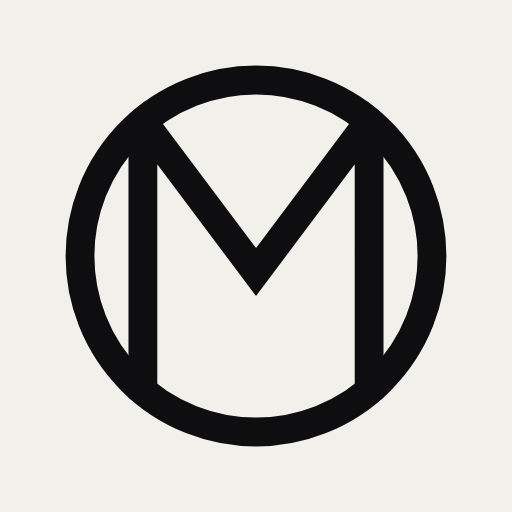
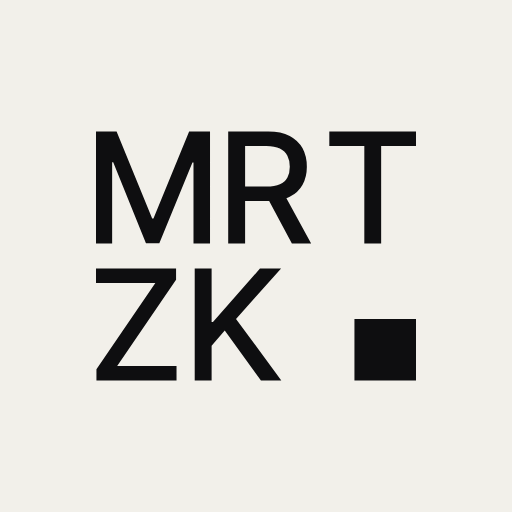
Switch to MRT/ZK grid monogram (#0E0E10 on #F2F0EA)
Replaces the circle monogram in the favicon, app icons, nav, hero,
About placeholder, footer and social preview image.

Claude-Session: https://claude.ai/code/session_01DwrwhGqewnAYTXEkSiZ8Jd

Changed region(s): [[0.125, 0.125, 0.875, 0.875], [0.75, 0.625, 0.7812, 0.6875]]

diff --git a/index.html b/index.html
@@ -35,7 +35,7 @@
 
   <header class="nav">
     <a href="#top" class="brand" aria-label="Mortzik, back to top">
-      <span class="badge"><svg viewBox="0 0 64 64" aria-hidden="true"><use href="#mark"/></svg></span>
+      <span class="badge"><svg aria-hidden="true"><use href="#mark"/></svg></span>
       <span class="mono wordmark">MORTZIK</span>
     </a>
     <nav>
@@ -47,22 +47,16 @@
     </nav>
   </header>
 
-  <!-- Monogram, defined once and reused -->
+  <!-- MRT/ZK grid monogram, defined once and reused -->
   <svg width="0" height="0" style="position:absolute" aria-hidden="true">
-    <defs>
-      <clipPath id="mark-clip"><circle cx="32" cy="32" r="23.8"/></clipPath>
-      <g id="mark" fill="none" stroke="currentColor" stroke-width="3.6">
-        <circle cx="32" cy="32" r="22"/>
-        <path clip-path="url(#mark-clip)" d="M17.86 50V15.15L32 34l14.14-18.85V50"/>
-      </g>
-    </defs>
+    <symbol id="mark" viewBox="0 0 228.74 178.00"><path fill="currentColor" d="M0 0H14.71L40.16 62.17H41.07L66.58 0H81.5V80H69.69V22.12H68.94L45.26 79.89H35.7L12.3 22.07H11.54V80H0ZM94.5 80V0H123.07Q132.36 0 138.48 3.19Q144.6 6.39 147.66 12.05Q150.72 17.72 150.72 25.13Q150.72 32.43 147.66 38.01Q144.6 43.6 138.48 46.66Q137.35 47.19 136.11 47.68L153.78 80H140.03L123.77 49.72Q123.39 49.72 122.96 49.72H106.58V80ZM106.58 39.41H121.83Q127.79 39.41 131.47 37.69Q135.15 35.97 136.84 32.81Q138.53 29.64 138.53 25.13Q138.53 20.56 136.81 17.26Q135.09 13.96 131.42 12.16Q127.74 10.36 121.78 10.36H106.58ZM166.78 10.36V0H228.74V10.36H203.83V80H191.8V10.36ZM0.32 178V170L42.42 108.36H0V98H57.23V106.05L15.14 167.64H57.56V178ZM70.56 178V98H82.64V136.23H83.6L117.21 98H132.3L100.09 133.97L132.46 178H117.91L92.03 142.3L82.64 153.19V178ZM184.74 134h44v44h-44z"/></symbol>
   </svg>
 
   <main id="top">
     <!-- HERO: the monogram sits at the centre of the polyrhythm rings -->
     <section class="hero">
       <div class="hero-core" aria-hidden="true">
-        <span class="badge big"><svg viewBox="0 0 64 64"><use href="#mark"/></svg></span>
+        <span class="badge big"><svg aria-hidden="true"><use href="#mark"/></svg></span>
       </div>
       <h1 class="sr-only">Mortzik</h1>
 
@@ -94,7 +88,7 @@
         <img class="portrait" src="{{ s.portrait }}" alt="Mortzik">
         {%- else %}
         <div class="portrait placeholder" aria-hidden="true">
-          <span class="badge huge"><svg viewBox="0 0 64 64"><use href="#mark"/></svg></span>
+          <span class="badge huge"><svg aria-hidden="true"><use href="#mark"/></svg></span>
         </div>
         {%- endif %}
         <div class="about-text">
@@ -185,7 +179,7 @@
   </div>
 
   <footer class="mono">
-    <span class="foot-brand"><span class="badge small"><svg viewBox="0 0 64 64" aria-hidden="true"><use href="#mark"/></svg></span>© <span id="year">{{ site.time | date: "%Y" }}</span> Mortzik</span>
+    <span class="foot-brand"><span class="badge small"><svg aria-hidden="true"><use href="#mark"/></svg></span>© <span id="year">{{ site.time | date: "%Y" }}</span> Mortzik</span>
     <span>mortzik.com</span>
   </footer>
 

diff --git a/style.css b/style.css
@@ -245,16 +245,16 @@ footer {
   .nav nav a:not(:last-child) { display: none; }
 }
 
-/* Logo badge: one-colour monogram, ink on paper */
+/* Logo badge: MRT/ZK grid monogram, ink on paper */
 .badge {
   display: inline-flex; align-items: center; justify-content: center;
-  width: 30px; height: 30px; border-radius: 50%;
+  width: 32px; height: 32px; border-radius: 22%;
   background: var(--paper); color: var(--ink); flex: none;
 }
-.badge svg { width: 100%; height: 100%; display: block; }
-.badge.small { width: 18px; height: 18px; }
-.badge.big { width: clamp(88px, 11vw, 128px); height: clamp(88px, 11vw, 128px); box-shadow: 0 0 0 1px rgba(242,240,234,.08), 0 0 80px rgba(242,240,234,.12); }
-.badge.huge { width: 42%; height: auto; aspect-ratio: 1; opacity: .9; }
+.badge svg { width: 62.5%; height: 62.5%; display: block; }
+.badge.small { width: 20px; height: 20px; }
+.badge.big { width: clamp(96px, 11vw, 136px); height: clamp(96px, 11vw, 136px); box-shadow: 0 0 0 1px rgba(242,240,234,.08), 0 0 80px rgba(242,240,234,.12); }
+.badge.huge { width: 44%; height: auto; aspect-ratio: 1; }
 .brand { display: inline-flex; align-items: center; gap: 12px; text-decoration: none; }
 .wordmark { font-weight: 500; letter-spacing: .3em; font-size: 13px; }
 .foot-brand { display: inline-flex; align-items: center; gap: 10px; }
